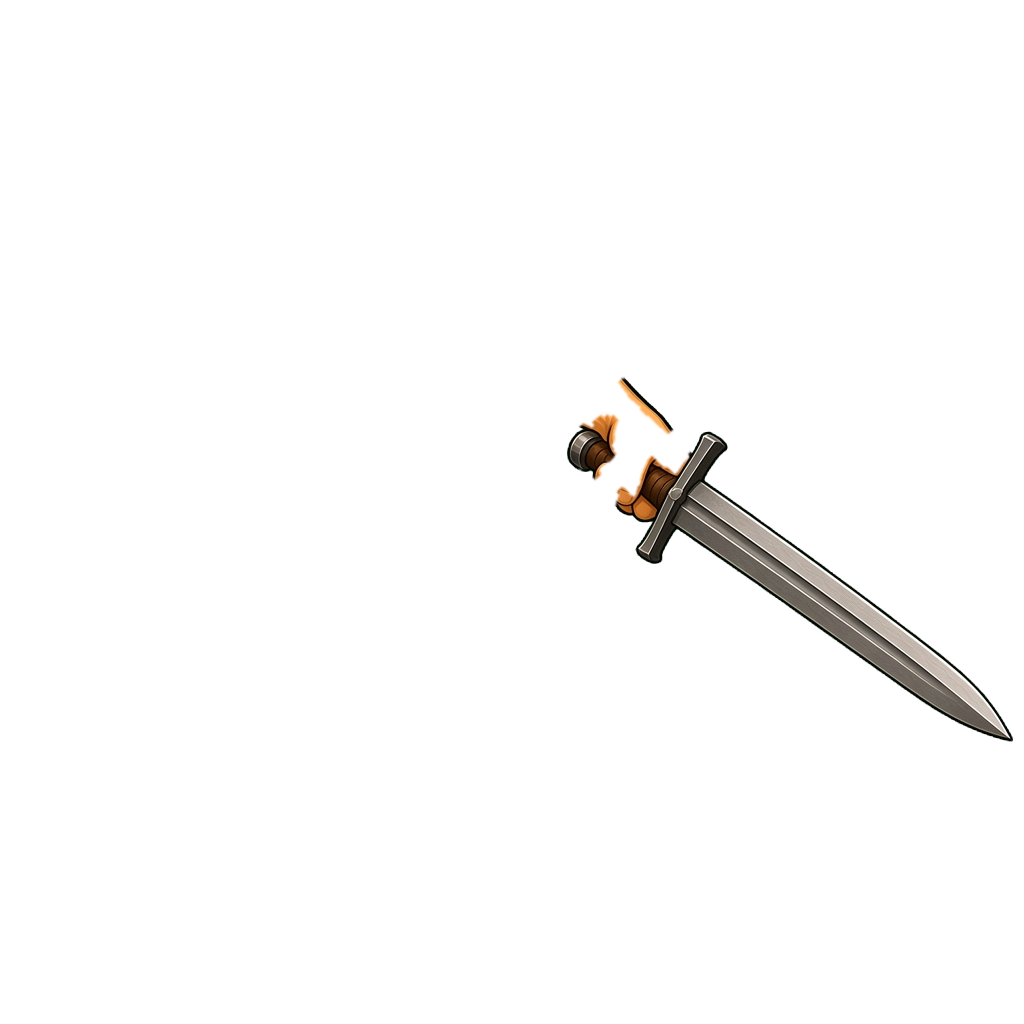
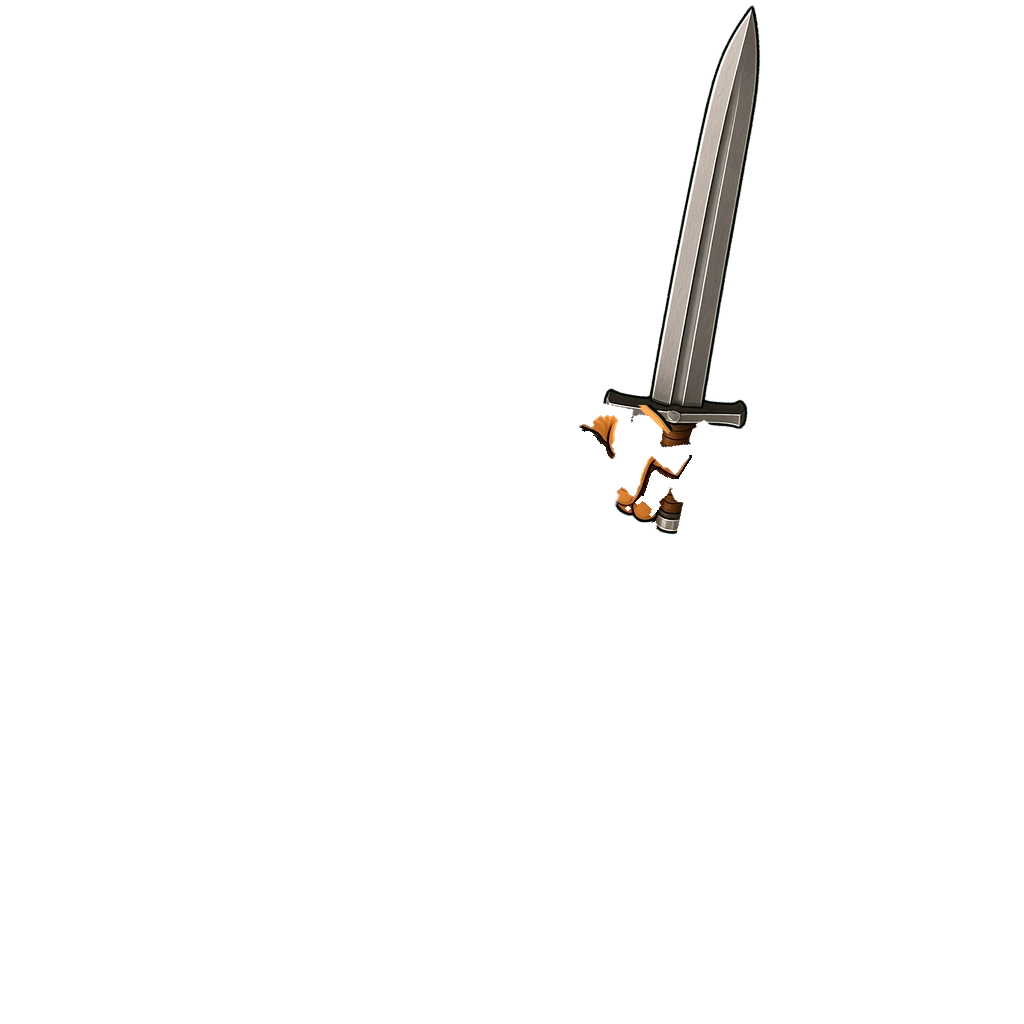
美术：持剑姿势改为竖握朝上（战士批）——盘点表、warrior_full 立绘重绘、战士三把武器层改竖握，附新旧对比

Changed region(s): [[0.5938, 0.0, 1.0, 0.7188], [0.5312, 0.4062, 0.5938, 0.4688]]

diff --git a/docs/art-requests.md b/docs/art-requests.md
@@ -1449,3 +1449,46 @@ public/assets/ui/UI-Tooltip-Border.png
 - 三批真图已接入游戏（assets-manifest WM_ASSETS，按需加载）；节点坐标按 W-1/W-2/W-3 锚点回填。
 - 无锚点、手工放置 [适配] 的节点：bichi_xinshou、bichi_newbie、rift_58、sq_jiguan 群、bichi_to_woma、bichi_to_dushe、sq_snake 群、rift_66、rift_67、hj_town；其余未列锚点的节点按旧 0–1 比例换算（[适配]）。
 - 东北角紫雾浮岛仅装饰；出口用 icon_wm_portal；无需新增美术。
+
+## 持剑姿势盘点（sword-up）
+
+基准：origin/main 6aba894。判定标准：持剑/单手近战武器的角色，剑尖朝下或横着向侧面伸出 → 需修；目标姿势参考 `portraits/mage_full.png` 魔杖握法（竖握、剑尖朝上、贴近身体一侧、不遮脸）。
+
+| 文件 | 尺寸 | 持剑/单手近战 | 剑尖方向 | 需修 | 批次 |
+|---|---|---|---|---|---|
+| portraits/warrior_full.png | 856×857 | 是（阔剑） | 横向右侧伸出、略朝下 | 是 | 战士批（已完成） |
+| portraits/warrior_full_old.png | 537×1006 | 是 | 朝下 | 是（旧图） | 未处理：代码未引用（grep src 无结果），保留待定 |
+| portraits/mage_full.png | 813×900 | 否（魔杖） | 杖头朝上 | 否 | 姿势参考图 |
+| portraits/taoist_full.png | 853×979 | 手持符箓，剑在背后入鞘 | — | 否 | — |
+| portraits/summon_beast_full.png | 960×747 | 否 | — | 否 | — |
+| equip/warrior/weapon/wood_sword.png | 1024×1024 | 是 | 斜向右下 | 是 | 战士批（已完成） |
+| equip/warrior/weapon/iron_sword.png | 1024×1024 | 是 | 斜向右下 | 是 | 战士批（已完成） |
+| equip/warrior/weapon/dragon_sword.png | 1024×1024 | 是 | 斜向右下 | 是 | 战士批（已完成） |
+| equip/mage/weapon/wood_sword.png | 1024×1024 | 是 | 斜向右下 | 是 | 后续法师批 |
+| equip/mage/weapon/iron_sword.png | 1024×1024 | 是 | 斜向右下 | 是 | 后续法师批 |
+| equip/mage/weapon/dragon_sword.png | 1024×1024 | 是 | 斜向右下 | 是 | 后续法师批 |
+| equip/mage/weapon/magic_staff.png | 1024×1024 | 否（魔杖） | 朝上 | 否 | — |
+| equip/taoist/weapon/wood_sword.png | 1024×1024 | 是 | 斜向右下 | 是 | 后续道士批 |
+| equip/taoist/weapon/iron_sword.png | 1024×1024 | 是 | 斜向右下 | 是 | 后续道士批 |
+| equip/taoist/weapon/dragon_sword.png | 1024×1024 | 是 | 斜向右下 | 是 | 后续道士批 |
+| equip/taoist/weapon/tao_sword.png | 1024×1024 | 是 | 斜向右下 | 是 | 后续道士批 |
+| equip/*/body.png、armor/*.png（共 9 张） | 1024×1024 | 否 | — | 否 | — |
+| fx/summon_skeleton_atk.png | 836×1096 | 是（剑+盾） | 朝下（斜劈） | 是 | 后续召唤物批（攻击帧，是否改需确认） |
+| fx/summon_skeleton_hurt.png | 836×1096 | 是 | 朝上 | 否 | — |
+| fx/summon_beast_atk/hurt.png | — | 否 | — | 否 | — |
+| town/npc_weapon.png | 768×960 | 是（阔剑） | 朝上举起 | 否 | — |
+| town/npc_blacksmith、npc_mz_weapon | 768×960 | 锤 | 朝上 | 否 | — |
+| town/npc_brm_guide、npc_fm_veteran、npc_mz_veteran、npc_veteran | 768×960 | 长枪（非剑） | 竖握朝上 | 否 | — |
+| town/npc_brm_mystic_smith | 768×960 | 发光工具（推测非剑） | 朝下 | 否（推测） | — |
+| town/npc_teleporter、npc_brm_dragon | 768×960 | 法杖 | 朝上 | 否 | — |
+| town/ 其余 NPC | 768×960 | 无武器 | — | 否 | — |
+
+怪物立绘不属于角色，未纳入盘点。
+
+### 汇总
+- 需修共 13 张（不含未引用的 warrior_full_old）：战士批 4 张（已完成）；法师批 3 张；道士批 4 张；召唤骷髅攻击帧 1 张（待确认）；另 warrior_full_old 1 张未引用。
+
+### 战士批做法
+- warrior_full.png：以原图 + 法师立绘为参考重绘，只改持剑手：剑改竖握、剑尖朝上、贴在身体左侧（画面左），不遮脸；proc.py 抠图后缩回 856×857 RGBA。注意：持剑手由画面右侧换到了画面左侧。
+- 三把战士武器层：为保持与 body.png 手位对齐，未重绘，而是以拳心为轴把剑身旋转为近竖直（向外倾约 12°）、拳头像素保留原样，剑柄从拳中穿过、剑首在拳下。手臂仍是 body.png 的前伸姿势（body 层未改）。
+- 旧图备份：docs/sword-up-preview/old/；对比图：docs/sword-up-preview/*_compare.png。

diff --git a/docs/sword-up-audit.md b/docs/sword-up-audit.md
@@ -1,0 +1,42 @@
+# 持剑姿势盘点（sword-up）
+
+基准：origin/main 6aba894。判定标准：持剑/单手近战武器的角色，剑尖朝下或横着向侧面伸出 → 需修；目标姿势参考 `portraits/mage_full.png` 魔杖握法（竖握、剑尖朝上、贴近身体一侧、不遮脸）。
+
+| 文件 | 尺寸 | 持剑/单手近战 | 剑尖方向 | 需修 | 批次 |
+|---|---|---|---|---|---|
+| portraits/warrior_full.png | 856×857 | 是（阔剑） | 横向右侧伸出、略朝下 | 是 | 战士批（已完成） |
+| portraits/warrior_full_old.png | 537×1006 | 是 | 朝下 | 是（旧图） | 未处理：代码未引用（grep src 无结果），保留待定 |
+| portraits/mage_full.png | 813×900 | 否（魔杖） | 杖头朝上 | 否 | 姿势参考图 |
+| portraits/taoist_full.png | 853×979 | 手持符箓，剑在背后入鞘 | — | 否 | — |
+| portraits/summon_beast_full.png | 960×747 | 否 | — | 否 | — |
+| equip/warrior/weapon/wood_sword.png | 1024×1024 | 是 | 斜向右下 | 是 | 战士批（已完成） |
+| equip/warrior/weapon/iron_sword.png | 1024×1024 | 是 | 斜向右下 | 是 | 战士批（已完成） |
+| equip/warrior/weapon/dragon_sword.png | 1024×1024 | 是 | 斜向右下 | 是 | 战士批（已完成） |
+| equip/mage/weapon/wood_sword.png | 1024×1024 | 是 | 斜向右下 | 是 | 后续法师批 |
+| equip/mage/weapon/iron_sword.png | 1024×1024 | 是 | 斜向右下 | 是 | 后续法师批 |
+| equip/mage/weapon/dragon_sword.png | 1024×1024 | 是 | 斜向右下 | 是 | 后续法师批 |
+| equip/mage/weapon/magic_staff.png | 1024×1024 | 否（魔杖） | 朝上 | 否 | — |
+| equip/taoist/weapon/wood_sword.png | 1024×1024 | 是 | 斜向右下 | 是 | 后续道士批 |
+| equip/taoist/weapon/iron_sword.png | 1024×1024 | 是 | 斜向右下 | 是 | 后续道士批 |
+| equip/taoist/weapon/dragon_sword.png | 1024×1024 | 是 | 斜向右下 | 是 | 后续道士批 |
+| equip/taoist/weapon/tao_sword.png | 1024×1024 | 是 | 斜向右下 | 是 | 后续道士批 |
+| equip/*/body.png、armor/*.png（共 9 张） | 1024×1024 | 否 | — | 否 | — |
+| fx/summon_skeleton_atk.png | 836×1096 | 是（剑+盾） | 朝下（斜劈） | 是 | 后续召唤物批（攻击帧，是否改需确认） |
+| fx/summon_skeleton_hurt.png | 836×1096 | 是 | 朝上 | 否 | — |
+| fx/summon_beast_atk/hurt.png | — | 否 | — | 否 | — |
+| town/npc_weapon.png | 768×960 | 是（阔剑） | 朝上举起 | 否 | — |
+| town/npc_blacksmith、npc_mz_weapon | 768×960 | 锤 | 朝上 | 否 | — |
+| town/npc_brm_guide、npc_fm_veteran、npc_mz_veteran、npc_veteran | 768×960 | 长枪（非剑） | 竖握朝上 | 否 | — |
+| town/npc_brm_mystic_smith | 768×960 | 发光工具（推测非剑） | 朝下 | 否（推测） | — |
+| town/npc_teleporter、npc_brm_dragon | 768×960 | 法杖 | 朝上 | 否 | — |
+| town/ 其余 NPC | 768×960 | 无武器 | — | 否 | — |
+
+怪物立绘不属于角色，未纳入盘点。
+
+## 汇总
+- 需修共 13 张（不含未引用的 warrior_full_old）：战士批 4 张（已完成）；法师批 3 张；道士批 4 张；召唤骷髅攻击帧 1 张（待确认）；另 warrior_full_old 1 张未引用。
+
+## 战士批做法
+- warrior_full.png：以原图 + 法师立绘为参考重绘，只改持剑手：剑改竖握、剑尖朝上、贴在身体左侧（画面左），不遮脸；proc.py 抠图后缩回 856×857 RGBA。注意：持剑手由画面右侧换到了画面左侧。
+- 三把战士武器层：为保持与 body.png 手位对齐，未重绘，而是以拳心为轴把剑身旋转为近竖直（向外倾约 12°）、拳头像素保留原样，剑柄从拳中穿过、剑首在拳下。手臂仍是 body.png 的前伸姿势（body 层未改）。
+- 旧图备份：docs/sword-up-preview/old/；对比图：docs/sword-up-preview/*_compare.png。
